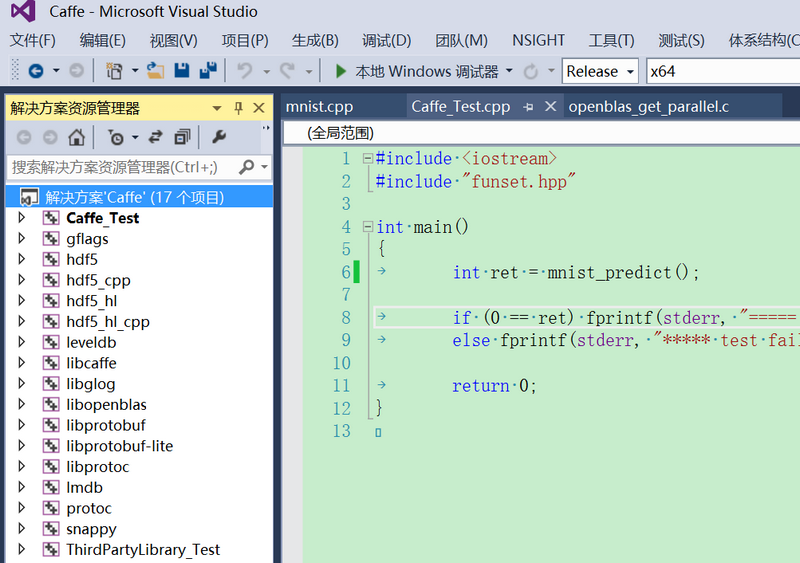
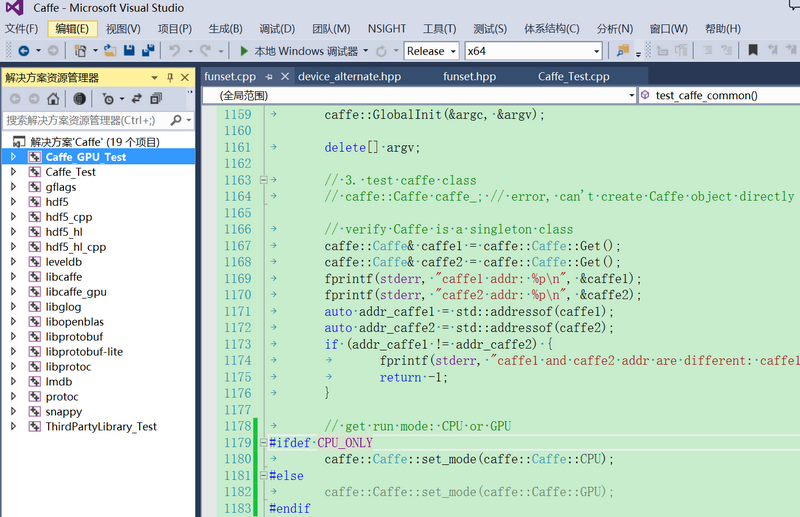
Add Caffe GPU test project

diff --git a/demo/Caffe_Test/funset.cpp b/demo/Caffe_Test/funset.cpp
@@ -1141,10 +1141,18 @@ int test_caffe_common()
 	int argc = 2;
 	char** argv = nullptr;
 	argv = new char*[2];
+#ifdef CPU_ONLY
 #ifdef _DEBUG
 	argv[0] = "E:/GitCode/Caffe_Test/lib/dbg/x64_vc12/Caffe_Test.exe";
 #else
 	argv[0] = "E:/GitCode/Caffe_Test/lib/rel/x64_vc12/Caffe_Test.exe";
+#endif
+#else
+#ifdef _DEBUG
+	argv[0] = "E:/GitCode/Caffe_Test/lib/dbg/x64_vc12/Caffe_GPU_Test.exe";
+#else
+	argv[0] = "E:/GitCode/Caffe_Test/lib/rel/x64_vc12/Caffe_GPU_Test.exe";
+#endif
 #endif
 	argv[1] = "caffe_test";
 
@@ -1168,6 +1176,11 @@ int test_caffe_common()
 	}
 
 	// get run mode: CPU or GPU
+#ifdef CPU_ONLY
+	caffe::Caffe::set_mode(caffe::Caffe::CPU);
+#else
+	caffe::Caffe::set_mode(caffe::Caffe::GPU);
+#endif
 	caffe::Caffe::Brew run_mode = caffe1.mode();
 	fprintf(stderr, "0: CPU, 1: GPU, run_mode: %d\n", run_mode);
 
@@ -1192,10 +1205,15 @@ int test_caffe_common()
 	// root solver
 	fprintf(stderr, "root solver: %d\n", caffe::Caffe::root_solver());
 
+#ifndef CPU_ONLY
+	// find device
+	int devide_id = caffe::Caffe::FindDevice(0);
+	fprintf(stderr, "the first available device: %d\n", devide_id);
 	// set device
-	// caffe::Caffe::SetDevice(2); // error, fatal log: Cannot use GPU in CPU-only Caffe: check mode.
+	caffe::Caffe::SetDevice(devide_id);
 	// device query
-	// caffe::Caffe::DeviceQuery(); // error, fatal log: Cannot use GPU in CPU-only Caffe: check mode.
+	caffe::Caffe::DeviceQuery();
+#endif
 
 	// RNG: generate random number
 	caffe::SyncedMemory data_a(10 * sizeof(int));
@@ -1218,7 +1236,11 @@ int test_caffe_common()
 	caffe::Caffe::set_mode(caffe::Caffe::GPU);
 	run_mode = caffe1.mode();
 	fprintf(stderr, "0: CPU, 1: GPU, run_mode: %d\n", run_mode);
+#ifdef CPU_ONLY
 	caffe::Caffe::set_mode(caffe::Caffe::CPU);
+#else
+	caffe::Caffe::set_mode(caffe::Caffe::GPU);
+#endif
 
 	return 0;
 }

diff --git a/demo/Caffe_Test/Caffe_Test.cpp b/demo/Caffe_Test/Caffe_Test.cpp
@@ -3,7 +3,7 @@
 
 int main()
 {
-	int ret = mnist_predict();
+	int ret = test_caffe_common();
 
 	if (0 == ret) fprintf(stderr, "===== test success =====\n");
 	else fprintf(stderr, "***** test fail *****\n");
